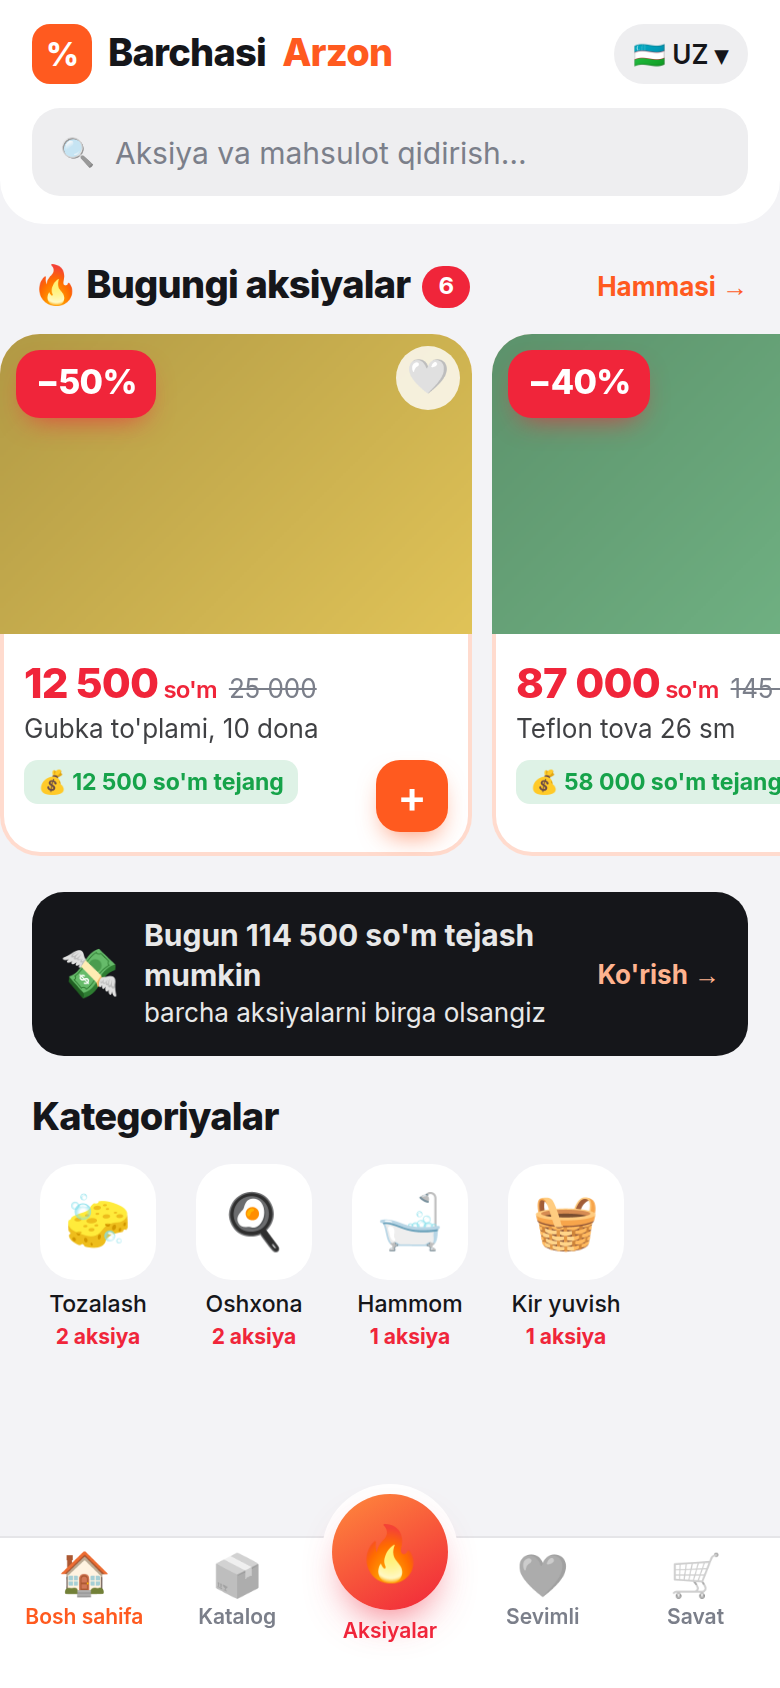
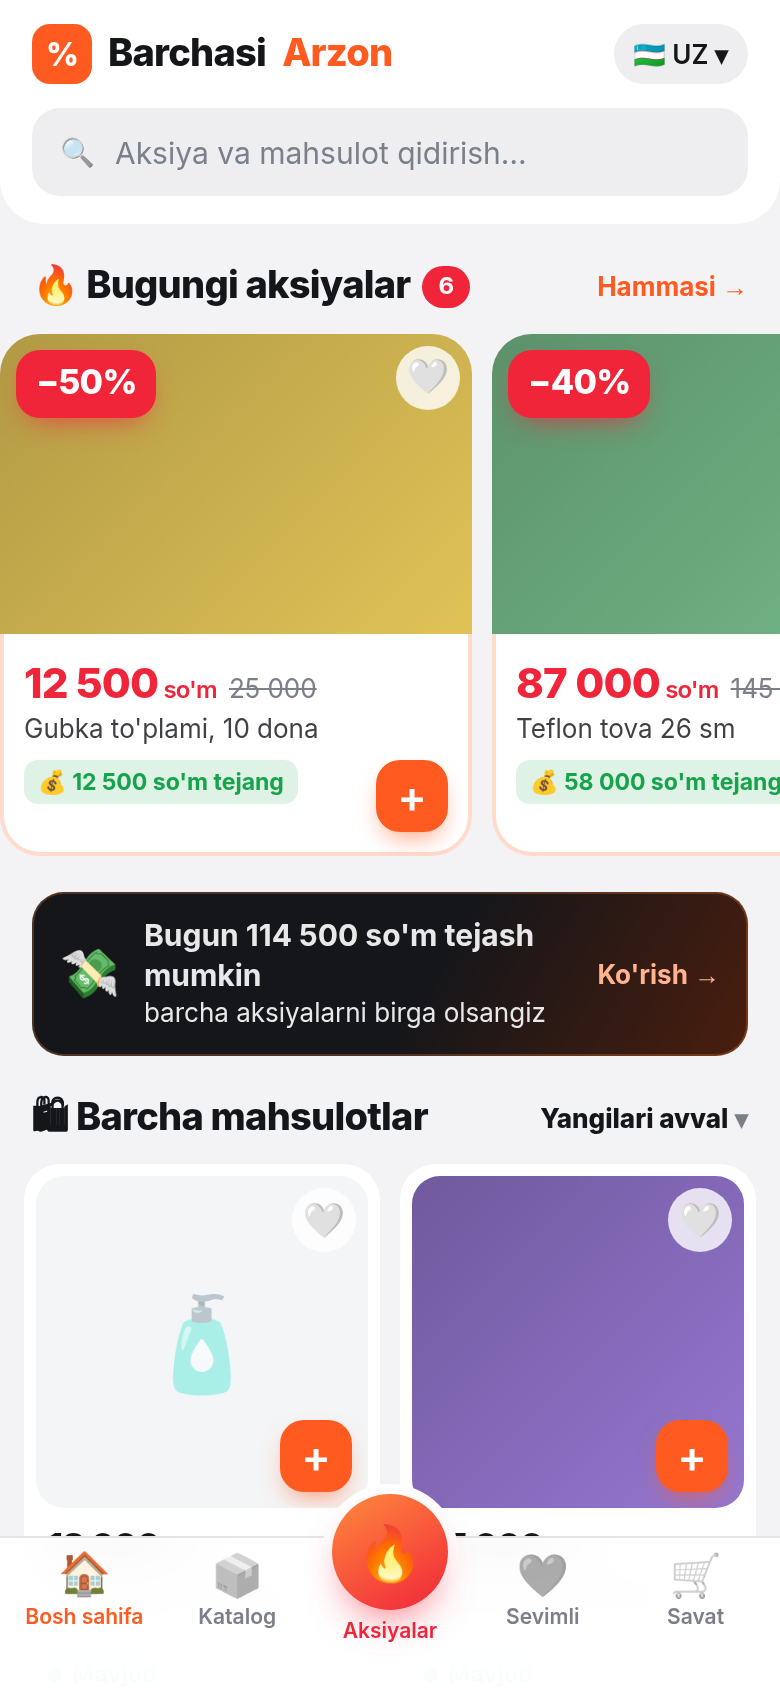
fix: removing recently seen and categories from homepage

diff --git a/telegram-app/src/screens/HomeScreen.tsx b/telegram-app/src/screens/HomeScreen.tsx
@@ -1,10 +1,11 @@
 import { useState } from "react";
 import { formatPrice, t } from "../i18n";
-import type { Category, Home, Language, Product, ProductFilter } from "../types";
+import type { Home, Language, Product, ProductFilter } from "../types";
 import SearchBar from "../components/SearchBar";
 import ProductFeed from "../components/ProductFeed";
-import RecentRow from "../components/RecentRow";
 import { DealHeroCard, SkeletonCards } from "../components/ProductCard";
+import FilterSheet from "../components/FilterSheet";
+import type { Sort } from "../types";
 
 const LANGS: Language[] = ["uz", "ru", "en"];
 const FLAGS: Record<Language, string> = { uz: "🇺🇿", ru: "🇷🇺", en: "🇬🇧" };
@@ -13,12 +14,9 @@ interface Props {
   lang: Language;
   active: boolean;
   home: Home | null;
-  categories: Category[];
-  recentIds: string[];
   onOpen: (product: Product) => void;
   onLanguage: (lang: Language) => void;
   onDeals: (categoryId?: string) => void;
-  onCatalog: (categoryId?: string) => void;
 }
 
 /** Logo + language switch, shared look for the top of the home screen. */
@@ -43,13 +41,33 @@ function BrandHeader({ lang, onLanguage }: { lang: Language; onLanguage: (l: Lan
 }
 
 /**
- * Home: deals first. Big "Bugungi aksiyalar" row, how much you can save today,
- * categories with their deal counts, recently viewed. Typing in search shows results from the whole shop.
+ * Home: deals first — the big "Bugungi aksiyalar" row and how much you can save today,
+ * then every product mixed in one long feed. Typing in search shows results from the whole shop.
+ * (Categories live in Katalog/Aksiyalar; "recently viewed" lives in the Sevimli tab.)
  */
 export default function HomeScreen(props: Props) {
-  const { lang, active, home, categories, recentIds, onOpen, onLanguage, onDeals, onCatalog } = props;
+  const { lang, active, home, onOpen, onLanguage, onDeals } = props;
   const [q, setQ] = useState("");
+  // The "all products" feed under the deals: every visible product, deals and regular mixed, newest first.
+  const [feedSort, setFeedSort] = useState<Sort | null>(null);
+  const [feedInStock, setFeedInStock] = useState(false);
+  const [sheet, setSheet] = useState(false);
   const searchFilter: ProductFilter = { section: "all", categoryId: null, q, sort: null, inStock: false, minDiscount: 0 };
+  const feedFilter: ProductFilter = {
+    section: "all",
+    categoryId: null,
+    q: "",
+    sort: feedSort,
+    inStock: feedInStock,
+    minDiscount: 0,
+  };
+  const sortKeys: Record<Sort, Parameters<typeof t>[1]> = {
+    newest: "sortNewest",
+    discount: "sortDiscount",
+    price_asc: "sortPriceAsc",
+    price_desc: "sortPriceDesc",
+    name: "sortName",
+  };
 
   return (
     <div className="screen">
@@ -97,30 +115,28 @@ export default function HomeScreen(props: Props) {
             </button>
           )}
 
-          {categories.length > 0 && (
-            <>
-              <div className="sec-head">
-                <h2>{t(lang, "categories")}</h2>
-              </div>
-              <div className="hscroll cats">
-                {categories.map((c) => (
-                  <button
-                    key={c.id}
-                    className="cat"
-                    // Deals first: a category with deals opens Aksiyalar, otherwise the catalog.
-                    onClick={() => (c.dealCount > 0 ? onDeals(c.id) : onCatalog(c.id))}
-                  >
-                    <div className="cat-icon">{c.icon || c.name.charAt(0)}</div>
-                    <span className="cat-name">{c.name}</span>
-                    {c.dealCount > 0 && <span className="cat-deals">{t(lang, "dealsInCategory", { n: c.dealCount })}</span>}
-                  </button>
-                ))}
-              </div>
-            </>
-          )}
-
-          <RecentRow ids={recentIds} lang={lang} onOpen={onOpen} />
+          <div className="sec-head">
+            <h2>🛍 {t(lang, "allProducts")}</h2>
+            <button className="link-muted" onClick={() => setSheet(true)}>
+              <b>{t(lang, feedSort ? sortKeys[feedSort] : "sortNewest")}</b>
+              {feedInStock ? " · ✓" : ""} ▾
+            </button>
+          </div>
+          <ProductFeed filter={feedFilter} lang={lang} active={active} onOpen={onOpen} />
         </>
+      )}
+
+      {sheet && (
+        <FilterSheet
+          lang={lang}
+          sort={feedSort}
+          inStock={feedInStock}
+          sorts={["discount", "price_asc", "price_desc", "name"]}
+          defaultSortKey="sortNewest"
+          onSort={setFeedSort}
+          onInStock={setFeedInStock}
+          onClose={() => setSheet(false)}
+        />
       )}
     </div>
   );

diff --git a/telegram-app/src/App.tsx b/telegram-app/src/App.tsx
@@ -34,7 +34,6 @@ export default function App() {
   const [opened, setOpened] = useState<Product | null>(null);
   // Home → a category or "see all" opens Deals/Catalog with that filter; n changes on every jump.
   const [dealsPreset, setDealsPreset] = useState<Preset>({ categoryId: null, n: 0 });
-  const [catalogPreset, setCatalogPreset] = useState<Preset>({ categoryId: null, n: 0 });
   const scrollByTab = useRef<Partial<Record<Tab, number>>>({});
   const tabRef = useRef<Tab>("home");
 
@@ -69,15 +68,6 @@ export default function App() {
     },
     [goTab]
   );
-  const openCatalog = useCallback(
-    (categoryId?: string) => {
-      setCatalogPreset((p) => ({ categoryId: categoryId ?? null, n: p.n + 1 }));
-      scrollByTab.current.catalog = 0;
-      goTab("catalog");
-    },
-    [goTab]
-  );
-
   // Who is this? (the backend checks Telegram's signature and remembers the language)
   const boot = useCallback(() => {
     setBootError(null);
@@ -148,12 +138,9 @@ export default function App() {
             lang={lang}
             active={showing("home")}
             home={home}
-            categories={categories}
-            recentIds={recentIds}
             onOpen={openProduct}
             onLanguage={changeLanguage}
             onDeals={openDeals}
-            onCatalog={openCatalog}
           />
         </div>
         <div hidden={tab !== "catalog"}>
@@ -161,7 +148,6 @@ export default function App() {
             lang={lang}
             active={showing("catalog")}
             categories={categories}
-            preset={catalogPreset}
             onOpen={openProduct}
           />
         </div>
@@ -176,7 +162,7 @@ export default function App() {
           />
         </div>
         <div hidden={tab !== "favorites"}>
-          <FavoritesScreen lang={lang} active={showing("favorites")} onOpen={openProduct} />
+          <FavoritesScreen lang={lang} active={showing("favorites")} recentIds={recentIds} onOpen={openProduct} />
         </div>
         <div hidden={tab !== "cart"}>
           <CartScreen lang={lang} onOpen={openProduct} onDeals={() => openDeals()} />

diff --git a/telegram-app/src/screens/FavoritesScreen.tsx b/telegram-app/src/screens/FavoritesScreen.tsx
@@ -3,9 +3,17 @@ import { t } from "../i18n";
 import { useShop } from "../shop";
 import type { Language, Product } from "../types";
 import ProductCard from "../components/ProductCard";
+import RecentRow from "../components/RecentRow";
 
-/** ❤ Sevimlilar: the user's saved products. */
-export default function FavoritesScreen({ lang, active, onOpen }: { lang: Language; active: boolean; onOpen: (p: Product) => void }) {
+interface Props {
+  lang: Language;
+  active: boolean;
+  recentIds: string[];
+  onOpen: (p: Product) => void;
+}
+
+/** ❤ Sevimli: recently viewed products on top, then the user's saved products. */
+export default function FavoritesScreen({ lang, active, recentIds, onOpen }: Props) {
   const { favorites, reloadFavorites } = useShop();
 
   // Fresh list each time the tab is opened (an admin may have hidden or changed something).
@@ -20,6 +28,12 @@ export default function FavoritesScreen({ lang, active, onOpen }: { lang: Langua
           ❤ {t(lang, "favoritesTitle")} {favorites.length > 0 && <small>{favorites.length}</small>}
         </h1>
       </header>
+      <RecentRow ids={recentIds} lang={lang} onOpen={onOpen} />
+      {recentIds.length > 0 && favorites.length > 0 && (
+        <div className="sec-head">
+          <h2>❤ {t(lang, "favoritesTitle")}</h2>
+        </div>
+      )}
       {favorites.length ? (
         <div className="grid">
           {favorites.map((p) => (

diff --git a/telegram-app/src/screens/CatalogScreen.tsx b/telegram-app/src/screens/CatalogScreen.tsx
@@ -1,4 +1,4 @@
-import { useEffect, useState } from "react";
+import { useState } from "react";
 import { t } from "../i18n";
 import { haptic } from "../telegram";
 import type { Category, Language, Product, ProductFilter } from "../types";
@@ -10,12 +10,11 @@ interface Props {
   lang: Language;
   active: boolean;
   categories: Category[];
-  preset: { categoryId: string | null; n: number };
   onOpen: (product: Product) => void;
 }
 
 /** Katalog: regular (non-special) products by category. */
-export default function CatalogScreen({ lang, active, categories, preset, onOpen }: Props) {
+export default function CatalogScreen({ lang, active, categories, onOpen }: Props) {
   const [filter, setFilter] = useState<ProductFilter>({
     section: "general",
     categoryId: null,
@@ -27,10 +26,6 @@ export default function CatalogScreen({ lang, active, categories, preset, onOpen
   const [total, setTotal] = useState<number | null>(null);
   const [sheet, setSheet] = useState(false);
   const update = (patch: Partial<ProductFilter>) => setFilter((f) => ({ ...f, ...patch }));
-
-  useEffect(() => {
-    if (preset.n > 0) update({ categoryId: preset.categoryId, q: "" });
-  }, [preset.n]); // eslint-disable-line react-hooks/exhaustive-deps
 
   return (
     <div className="screen">

diff --git a/telegram-app/src/styles.css b/telegram-app/src/styles.css
@@ -85,15 +85,10 @@ h1, h2, h3 { margin: 0; letter-spacing: -.02em; }
 .savestrip strong { display: block; font-size: 15px; opacity: 1; }
 .savestrip span { margin-left: auto; font-weight: 700; color: #ffb38f; font-size: 13px; white-space: nowrap; }
 
-.cats { gap: 12px; padding-bottom: 2px; }
-.cat { flex: none; width: 66px; text-align: center; display: flex; flex-direction: column; align-items: center; }
-.cat-icon { width: 58px; height: 58px; border-radius: 18px; background: var(--card); display: grid; place-items: center; font-size: 27px; font-weight: 700; margin-bottom: 6px; }
-.cat-name { font-size: 11.5px; font-weight: 500; line-height: 1.2; }
-.cat-deals { font-size: 10.5px; color: var(--sale); font-weight: 700; margin-top: 2px; }
-
 .mini-card { flex: none; width: 112px; text-align: left; }
 .mini-photo { position: relative; height: 112px; border-radius: 14px; overflow: hidden; background: var(--photo); margin-bottom: 6px; }
 .mini-card .price { font-size: 14px; }
+.mini-card .oldprice { display: none; } /* the −% badge on the photo already shows the discount */
 .mini-name { font-size: 12px; color: var(--muted); white-space: nowrap; overflow: hidden; text-overflow: ellipsis; }
 
 /* ---------- Deals screen ---------- */

diff --git a/src/models/Product.service.ts b/src/models/Product.service.ts
@@ -56,7 +56,13 @@ class ProductService {
     }
     if (inquiry.inStockOnly) match.status = { $ne: ProductStatus.OUT_OF_STOCK };
 
-    const defaultSort = inquiry.isSpecial ? { updatedAt: -1 as const, _id: 1 as const } : SORTS[ProductSort.NAME];
+    // Default order: deals → recently updated; whole shop (home feed) → newest; catalog → by name.
+    const defaultSort =
+      inquiry.isSpecial === undefined
+        ? SORTS[ProductSort.NEWEST]
+        : inquiry.isSpecial
+          ? { updatedAt: -1 as const, _id: 1 as const }
+          : SORTS[ProductSort.NAME];
 
     const limit = inquiry.limit ?? 10;
     const page = Math.max(1, inquiry.page ?? 1);

diff --git a/telegram-app/src/i18n.ts b/telegram-app/src/i18n.ts
@@ -19,6 +19,7 @@ const texts = {
   recent: { uz: "Yaqinda ko'rilgan", ru: "Вы смотрели", en: "Recently viewed" },
   searchAll: { uz: "Aksiya va mahsulot qidirish…", ru: "Поиск акций и товаров…", en: "Search deals and products…" },
   searchResults: { uz: "Qidiruv natijalari", ru: "Результаты поиска", en: "Search results" },
+  allProducts: { uz: "Barcha mahsulotlar", ru: "Все товары", en: "All products" },
 
   // deals screen
   dealsTitle: { uz: "Aksiyalar", ru: "Акции", en: "Deals" },
